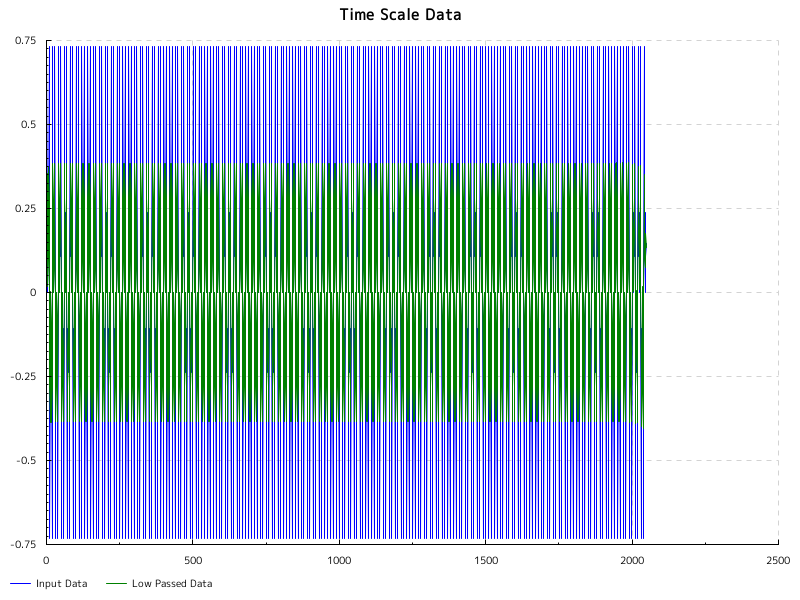
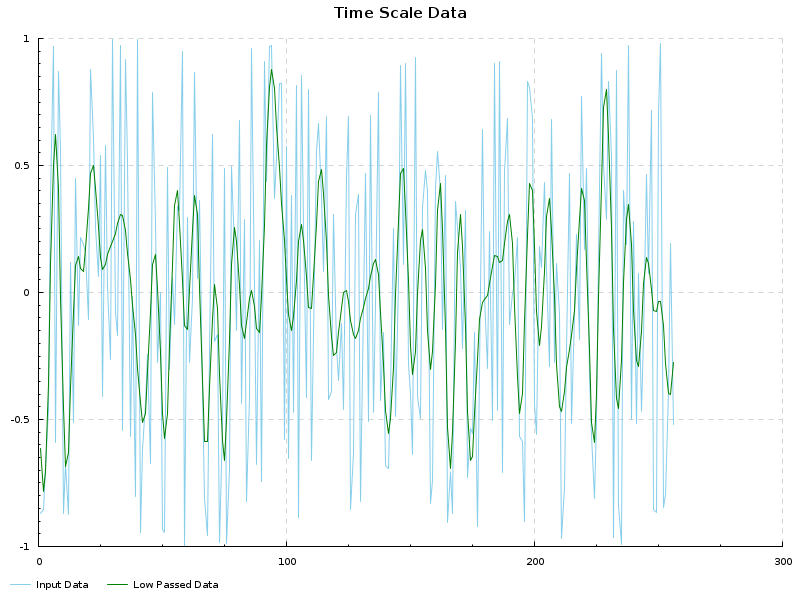
Update README

diff --git a/README.md b/README.md
@@ -1,8 +1,8 @@
 # FFT sample program
 
-### Feature (WIP)
+### Feature
 
-1. Generate Sin Wave ... *1
+1. Generate Random Number (-1 <= n <= 1) ... *1
 1. Low Pass Filtering of *1 ... *2
 1. DFT of *1 and *2 ... *3
 1. Drawing Chart of *1 ~ *3 to PNG Files
@@ -12,4 +12,14 @@
 ![Time Scale Chart](01_time_scale.png)
 
 ![Frequency Scale Chart](02_frequency_scale.png)
+
+### Parameter
+
+* Number of Data
+* Cutoff Frequency
+* Transition Band
+
+### Filter Design
+
+* Window Method with Hamming Window
 
